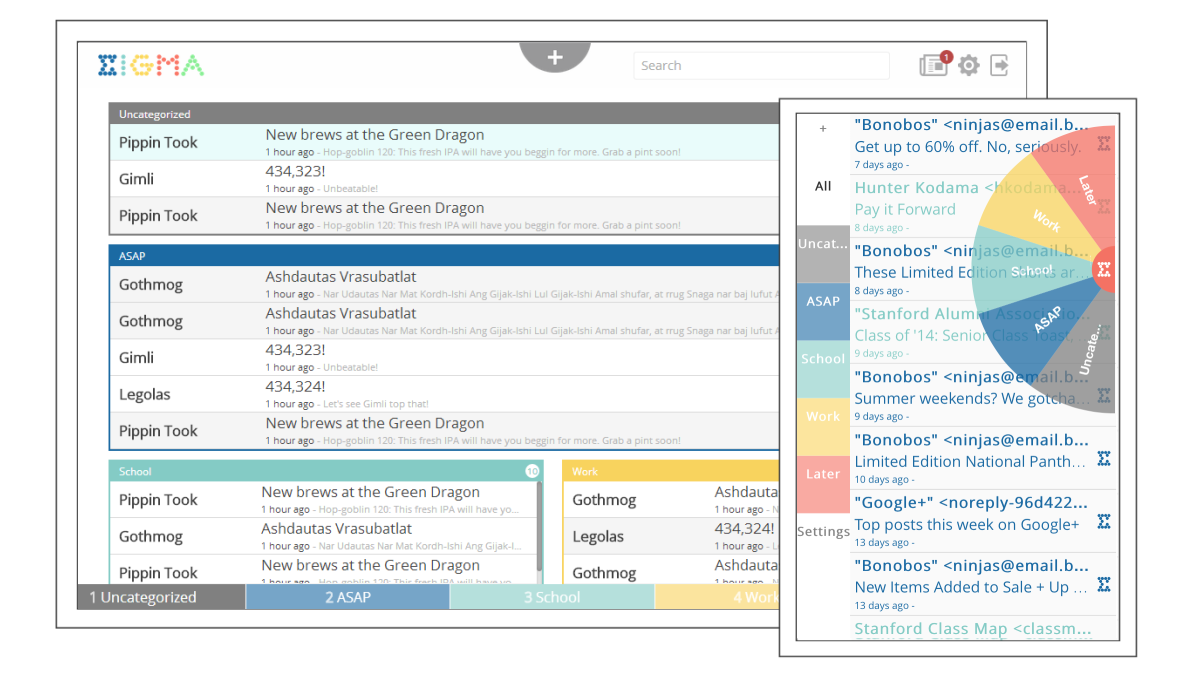
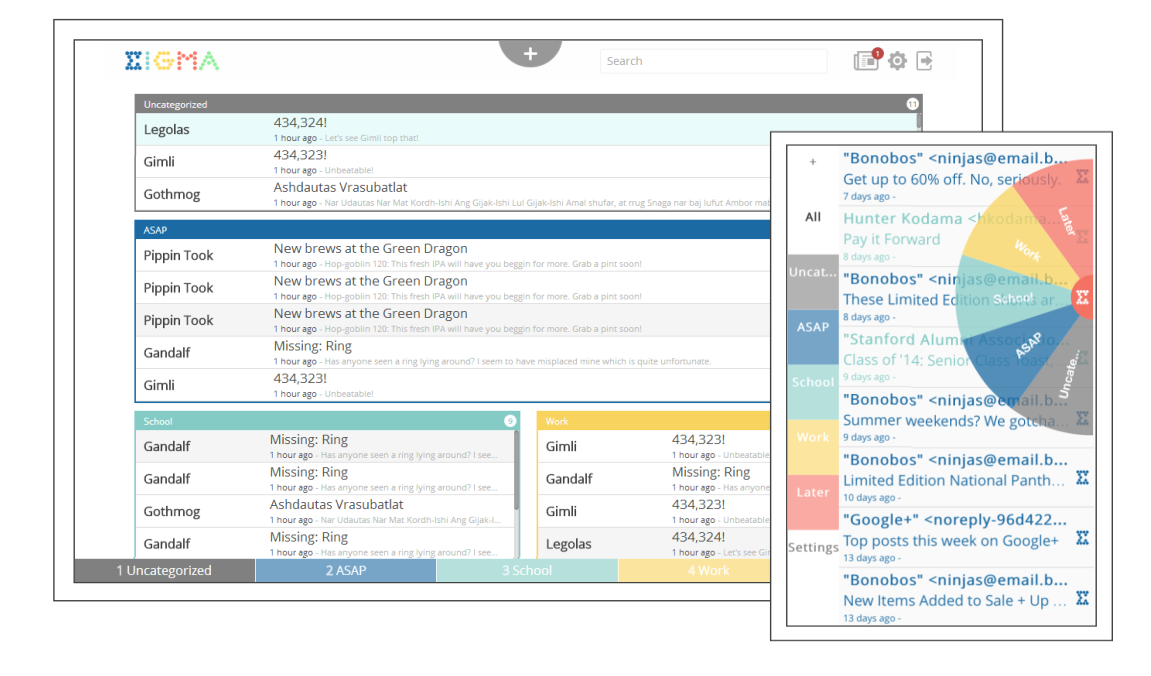
landing

diff --git a/templates/test.html b/templates/test.html
@@ -1,163 +1,5 @@
-<link href='http://fonts.googleapis.com/css?family=Open+Sans' rel='stylesheet' type='text/css'>
-<style>
-body {
-	font-family: 'Open Sans', sans-serif;
-}
-.row {
-	width: 90%;
-	height: 145px;
-	margin: 22px auto;
-}
-.one-box {
-	overflow: auto;
-	width: 100%;
-	height: 145px;
-	border-left-style: solid;
-	border-left-width: 8px;
-}
-.two-box-1 {
-	position: absolute;
-	width: calc(45% - 14px);
-	height: 145px;
-	border-left-style: solid;
-	border-left-width: 8px;
-}
-.two-box-2 {
-	position: absolute;
-	margin-left: calc(45% + 14px);
-	width: calc(45% - 28px);
-	height: 145px;
-	border-left-style: solid;
-	border-left-width: 8px;
-}
-.ind-email {
-	margin-bottom:-1px;
-	padding-left: 12px;
-	height: 47px;
-	border-style: solid;
-	border-width: 1px;
-	border-color: #c6c6c6
-}
-.from {
-	font-weight: bold;
-	font-size: 120%;
-	color: #414141;
-	white-space: nowrap;
-	text-overflow:ellipsis;
-	position: absolute;
-	line-height:47px;
-	width: 180px;
-	margin: auto 12px;
-	-moz-user-select: none; 
-	-khtml-user-select: none; 
-	-webkit-user-select: none; 
-	-o-user-select: none; 
-}
-.sigma {
-	position: absolute;
-	margin-left: 187px;
-	margin-top: 8px;
-	-moz-user-select: none; 
-	-khtml-user-select: none; 
-	-webkit-user-select: none; 
-	-o-user-select: none; 
-}
-.subject {
-	position: absolute;
-	font-size: 120%;
-	color: #898989;
-	overflow:hidden;
-	white-space: nowrap;
-	text-overflow:ellipsis;
-	font-weight: 300;
-	display: inline-block;
-	width: calc(100% - 250px);
-	padding-left: 224px;
-	margin-top: 4px;
-	-moz-user-select: none; 
-	-khtml-user-select: none; 
-	-webkit-user-select: none; 
-	-o-user-select: none; 
-}
-.snipit {
-	position: absolute;
-	padding-left: 224px;
-	margin-top: 28px;
-	color: #d8d8d8;
-	white-space: nowrap;
-	text-overflow:ellipsis;
-	overflow:hidden;
-	display: inline-block;
-	width: calc(100% - 250px);
-	font-size: 75%;
-	-moz-user-select: none; 
-	-khtml-user-select: none; 
-	-webkit-user-select: none; 
-	-o-user-select: none; 
-}
-</style>
-<div class = "row">
-<div class = "one-box" style = "border-left-color: #808080;">
-	<div class = "ind-email">
-		<div class = "from">Fred Johnson</div>
-		<div class = "sigma"><img src = "images/sigma.png" /></div>
-		<div class = "subject">This is an example subject woooo it is super long</div>
-		<div class = "snipit">This is an example snipit woooo it is super super super super super super super super super super long</div>
-	</div>
-	<div class = "ind-email">
-		<div class = "from">Fred Johnson</div>
-		<div class = "sigma"></div>
-		<div class = "subject">This is an example subject woooo it is super long</div>
-		<div class = "snipit">This is an example snipit woooo it is super super super super super super super super super super long</div>
-	</div>
-	<div class = "ind-email">
-		<div class = "from">Fred Johnson</div>
-		<div class = "sigma"><img src = "images/sigma.png" /></div>
-		<div class = "subject">This is an example subject woooo it is super long</div>
-		<div class = "snipit">This is an example snipit woooo it is super super super super super super super super super super long</div>
-	</div>
-</div>
-</div>
-
-<div class = "row">
-<div class = "two-box-1" style = "border-left-color: #1b6aa3;">
-	<div class = "ind-email">
-		<div class = "from">Fred Johnson</div>
-		<div class = "sigma"><img src = "images/sigma.png" /></div>
-		<div class = "subject">This is an example subject woooo it is super long</div>
-		<div class = "snipit">This is an example snipit woooo it is super super super super super super super super super super long</div>
-	</div>
-	<div class = "ind-email">
-		<div class = "from">Fred Johnson</div>
-		<div class = "sigma"></div>
-		<div class = "subject">This is an example subject woooo it is super long</div>
-		<div class = "snipit">This is an example snipit woooo it is super super super super super super super super super super long</div>
-	</div>
-	<div class = "ind-email">
-		<div class = "from">Fred Johnson</div>
-		<div class = "sigma"><img src = "images/sigma.png" /></div>
-		<div class = "subject">This is an example subject woooo it is super long</div>
-		<div class = "snipit">This is an example snipit woooo it is super super super super super super super super super super long</div>
-	</div>
-</div>
-<div class = "two-box-2" style = "border-left-color: #84cbc5;">
-	<div class = "ind-email">
-		<div class = "from">Fred Johnson</div>
-		<div class = "sigma"><img src = "images/sigma.png" /></div>
-		<div class = "subject">This is an example subject woooo it is super long</div>
-		<div class = "snipit">This is an example snipit woooo it is super super super super super super super super super super long</div>
-	</div>
-	<div class = "ind-email">
-		<div class = "from">Fred Johnson</div>
-		<div class = "sigma"></div>
-		<div class = "subject">This is an example subject woooo it is super long</div>
-		<div class = "snipit">This is an example snipit woooo it is super super super super super super super super super super long</div>
-	</div>
-	<div class = "ind-email">
-		<div class = "from">Fred Johnson</div>
-		<div class = "sigma"><img src = "images/sigma.png" /></div>
-		<div class = "subject">This is an example subject woooo it is super long</div>
-		<div class = "snipit">This is an example snipit woooo it is super super super super super super super super super super long</div>
-	</div>
-</div>
-</div>
+<html>
+<body>
+	<iframe src="http://sigma.jmvldz.com/?home" width="80%" height="100%"></iframe>
+</body>
+</html>

diff --git a/static/css/home.css b/static/css/home.css
@@ -12,6 +12,8 @@ body, html{
     position: absolute;
     height: 100%;
     width: 100%;
+	left: 0;
+	top: 0;
 }
 
 .middle {
@@ -26,6 +28,7 @@ body, html{
 }
 
 .main-page {
+	padding-top: 15%;
 	height: 100%;
 }
 
@@ -43,12 +46,37 @@ body, html{
 }
 
 .devices {
-	width: 100%;
-	margin-left: 40px;
+	width: 80%;
+}
+
+.demo {
+	height: 100%;
+	margin-left: 10%;
+}
+
+.frame::-webkit-scrollbar-track{
+	-webkit-box-shadow: inset 0 0 6px rgba(0,0,0,0.3);
+	border-radius: 10px;
+	background-color: #F5F5F5;
+}
+
+.frame::-webkit-scrollbar {
+	width: 6px;
+	background-color: #F5F5F5;
+}
+
+.frame::-webkit-scrollbar-thumb {
+	border-radius: 10px;
+	-webkit-box-shadow: inset 0 0 6px rgba(0,0,0,.3);
+	background-color: #AFAFAF;
 }
 
 .heading {
 	margin-bottom: 30px;
+}
+
+.signin {
+	margin-top: 20px;
 }
 
 a.signup {

diff --git a/templates/landing.html b/templates/landing.html
@@ -16,21 +16,20 @@
 </head>
 
 <body>
-	<div class="outer">
-		<div class="middle">
-			<div class="inner">
+
 				<div class="row main-page">
-					<div class="col-xs-6 left">
+					<div class="col-xs-8 left">
 						<img class="devices" src="../static/images/devices.gif" title="Sigma" />
 					</div>
-					<div class="col-xs-6 right">
+					<div class="col-xs-4 right">
 						<img class="logo" src="../static/images/logo-1.png" title="Sigma" />
 						<h2 class="heading">Your Auto-Organized Inbox</h2>
 						<a class="signup" href="#">Get Started</a>
+						<div class="signin"><a href="#">Sign In</a></div>
 					</div>
 				</div>
-			</div>
-		</div>
+	<div class="demo">
+		<iframe class="frame" src="http://sigma.jmvldz.com/?home" width="100%" height="90%"></iframe>
 	</div>
 </body>
 </html>
